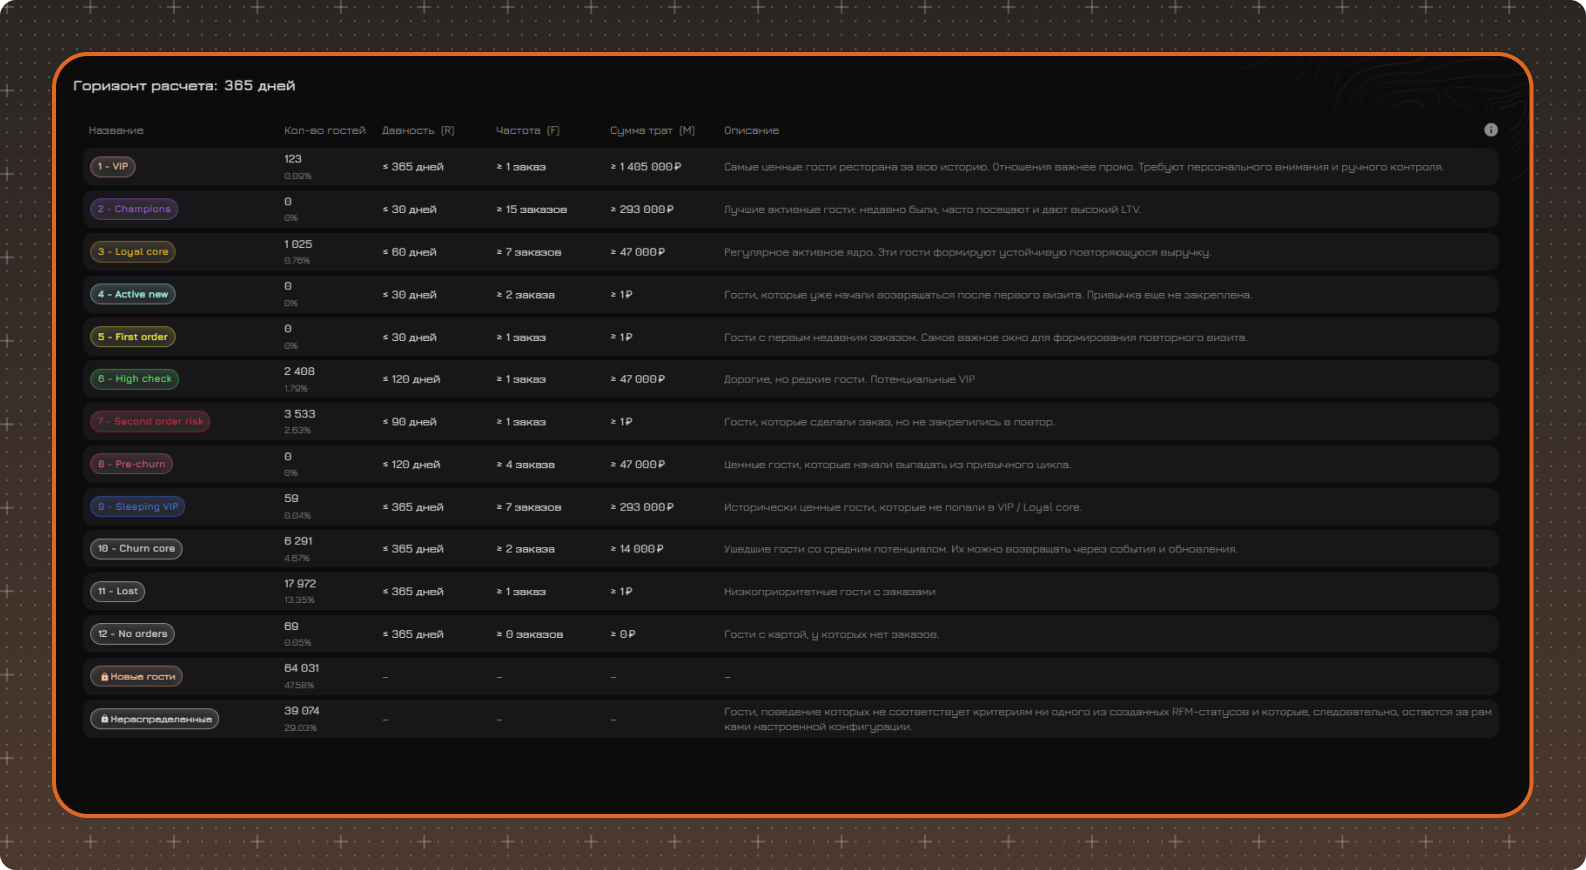
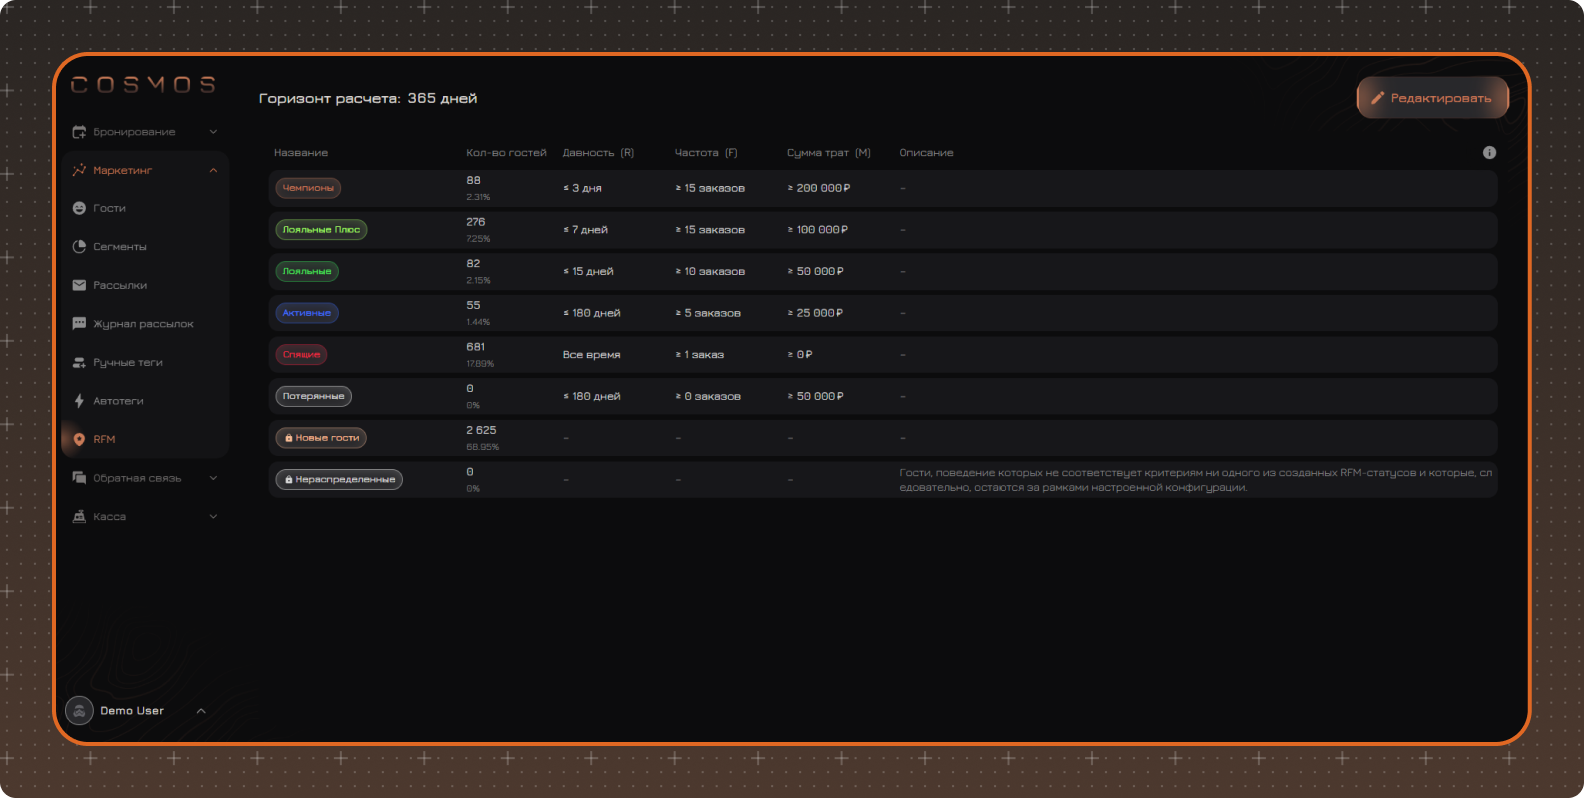
rfm update 17avg

diff --git a/content/ru/marketing/rfm/1.rfm-info.md b/content/ru/marketing/rfm/1.rfm-info.md
@@ -1,0 +1,79 @@
+---
+title: Общая информация
+description: 
+summary: 
+order: 1
+updatedAt: 2026-08-17
+---
+[[delimiter rows=1]]
+
+
+## Для чего используется RFM
+
+**RFM** помогает автоматически разделить гостей на группы в зависимости от их активности и ценности для бизнеса. Это позволяет быстро определить, какие гости являются наиболее лояльными, какие начинают терять интерес, а какие требуют повторного привлечения.
+
+Присвоенные **RFM-статусы** можно использовать при работе с гостевой базой, анализе аудитории и построении маркетинговых сценариев.
+
+При расчете RFM учитываются три показателя:
+
+**✔** **Давность (R)** — как давно гость совершал покупку (в днях)
+
+**✔** **Частота (F)** — как часто гость совершает покупки (количество чеков за выбранный период)
+
+**✔** **Сумма трат (M)** — общая сумма покупок гостя
+
+![рфм список](/ru/images/rfm/rfm-list.png)
+
+[[delimiter rows=1]]
+
+
+Каждому гостю автоматически присваивается **RFM-статус** в соответствии с настроенными правилами сегментации. Статус определяет, к какой категории относится гость на основании истории его посещений и расходов.
+
+Помимо RFM-статуса, для наиболее ценных гостей дополнительно рассчитывается **RFM-рейтинг**. Он показывает место гостя среди гостей с наивысшими показателями и позволяет выделить наиболее значимых гостей внутри RFM-сегментов. Рейтинг рассчитывается только для 1000 гостей с наивысшими показателями. Остальным гостям присваивается только RFM-статус.
+
+
+
+
+## Где отображается RFM
+
+
+
+[[gallery gap=12 layout=carousel]]
+![список гостей](/ru/images/rfm/rfm-guests-list.png)
+![карточка гостя](/ru/images/rfm/rfm-guest.png)
+![список бронирований](/ru/images/rfm/rfm-reservations-list2.png)
+
+[[/gallery]]
+
+
+Информация о RFM отображается в нескольких разделах системы:
+
+✔ **Маркетинг → Гости** — текущий RFM-статус отображается под именем каждого гостя.
+
+✔ **Маркетинг → Гости** — кликните на нужного гостя и наведите курсор на его аватар, чтобы посмотреть текущий RFM-статус, RFM-рейтинг (если он рассчитан) и описание статуса.
+
+✔ **Бронирование → Бронирование → Список бронирований** — RFM отображается под именем гостя.
+
+
+
+## Системные статусы
+
+![системные статусы](/ru/images/rfm/rfm-default.png)
+
+[[delimiter rows=1]]
+
+В системе предусмотрено два системных RFM-статуса, которые создаются автоматически.
+
+**✔** **Новые гости** — гости, у которых еще не было ни одного посещения или чека.
+
+**✔** **Нераспределенные** — гости, у которых был хотя бы один визит, но они не соответствуют условиям ни одного настроенного RFM-статуса. Деактивированные гости также автоматически попадают в этот статус.
+
+Строки системных статусов не являются интерактивными, их невозможно изменить или удалить. 
+
+
+
+
+
+[[delimiter rows=3]]
+
+---

diff --git a/content/ru/marketing/rfm/2.create-edit.md b/content/ru/marketing/rfm/2.create-edit.md
@@ -1,0 +1,67 @@
+---
+title: Создание и редактирование
+description: 
+summary: 
+order: 2
+updatedAt: 2026-08-17
+---
+[[delimiter rows=1]]
+
+
+## Создание RFM-статуса
+
+Чтобы создать новый RFM-статус, нажмите **Редактировать**, затем **Добавить RFM статус**, заполните поля и нажмите **Добавить**.
+
+![создание рфм статуса](/ru/images/rfm/rfm-create.png)
+
+[[delimiter rows=1]]
+
+
+-  **Название статуса** 
+
+-  **Цвет** 
+
+-  **Описание** 
+
+-  **Давность (R)** - определяет, как давно гость должен был совершить последний заказ, чтобы соответствовать статусу. Если включить переключатель **Все время**, ограничение по количеству дней отключается, а при расчете учитывается вся история заказов гостя.
+
+-  **Частота (F)** - определяет минимальное количество заказов, которое гость должен совершить за выбранный период.
+
+-  **Сумма трат (M)** - определяет минимальную сумму, которую гость должен потратить за выбранный период.
+
+
+
+## Редактирование RFM-статусов
+
+Для изменения настроек нажмите **Редактировать**.
+
+![системные статусы](/ru/images/rfm/rfm-edit.png)
+
+[[delimiter rows=1]]
+
+
+
+На странице редактирования можно внести следующие изменения:
+
+- **Горизонт расчета.** Укажите период в днях, за который рассчитываются показатели **Частота** и **Сумма трат**. После применения новых настроек количество гостей в RFM-статусах будет пересчитано.
+
+- **Изменение приоритета.** Изменить приоритет RFM-статусов можно перетаскиванием строк. Если гость соответствует условиям нескольких статусов одновременно, ему будет присвоен статус с более высоким приоритетом.
+
+- **Добавление RFM-статуса.**
+
+- **Редактирование RFM-статуса.** Нажмите на строку нужного RFM-статуса, чтобы изменить его параметры.
+
+
+
+## Удаление RFM-статуса
+
+1. Нажмите **Редактировать**.
+2. Нажмите правой кнопкой мыши на нужный RFM-статус.
+3. Выберите **Удалить**.
+4. Подтвердите удаление.
+
+
+
+[[delimiter rows=3]]
+
+---
